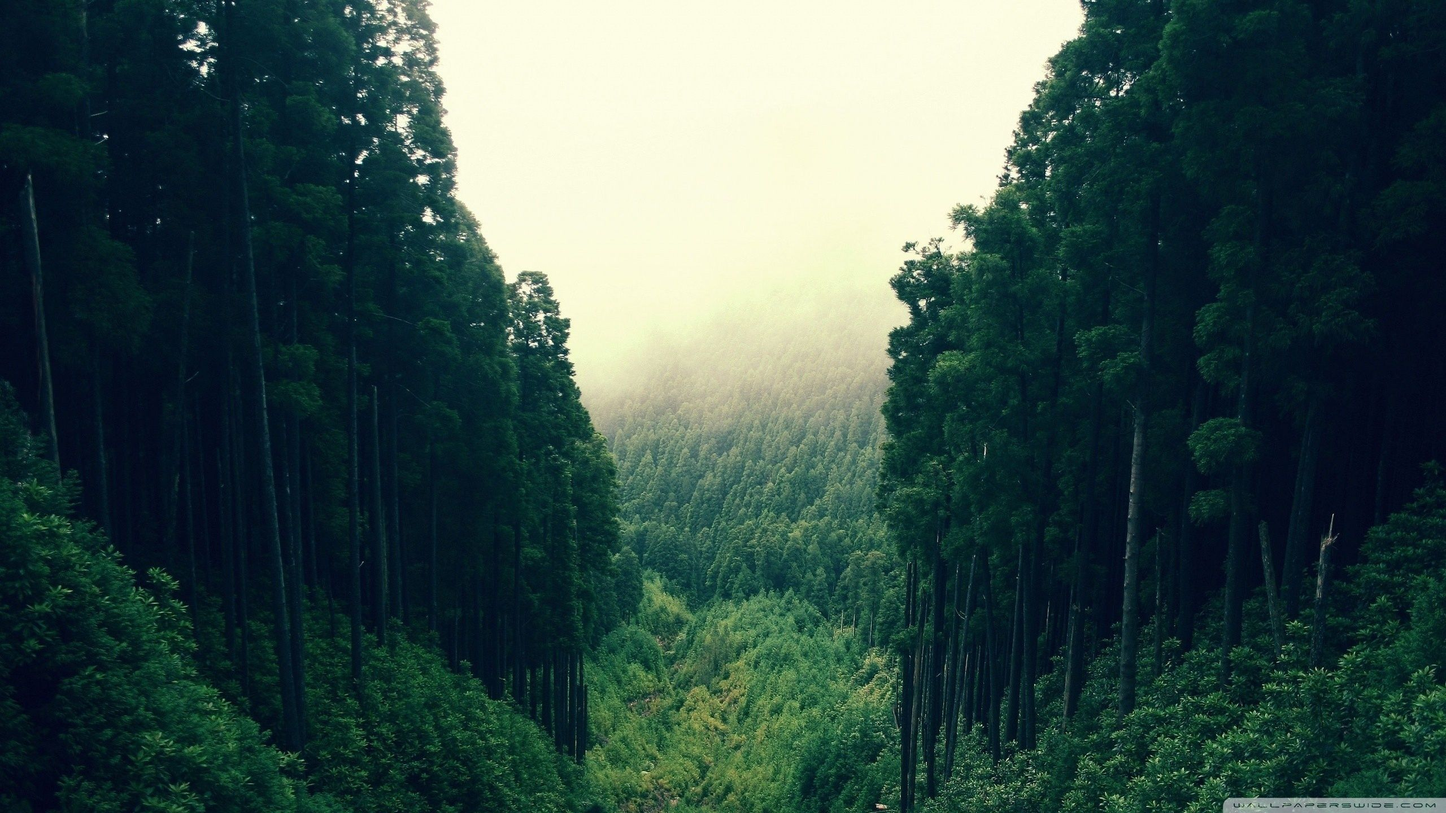
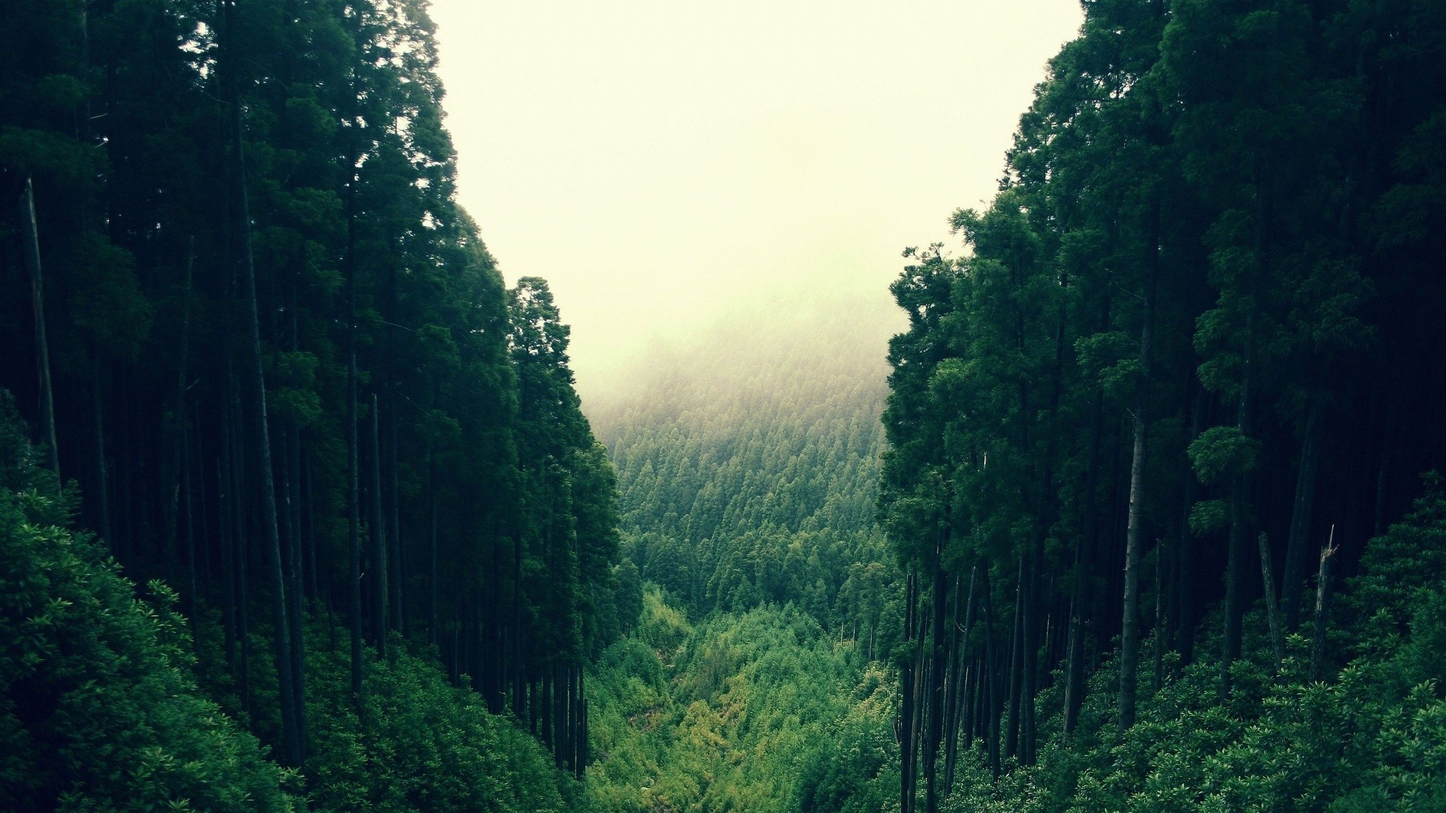
Update login & register

diff --git a/public/css/login.css b/public/css/login.css
@@ -43,7 +43,9 @@
     --white: #e9e9e9;
     --gray: #333;
     --blue: #0367a6;
+    --green: #4CAF50;
     --lightblue: #008997;
+    --lightgreen: #8bc34a;
 
     /* RADII */
     --button-radius: 0.7rem;
@@ -61,7 +63,8 @@ body {
     align-items: center;
 
     background-color: var(--white);
-    background: url("https://res.cloudinary.com/dci1eujqw/image/upload/v1616769558/Codepen/waldemar-brandt-aThdSdgx0YM-unsplash_cnq4sb.jpg");
+    /*background: url("https://res.cloudinary.com/dci1eujqw/image/upload/v1616769558/Codepen/waldemar-brandt-aThdSdgx0YM-unsplash_cnq4sb.jpg");*/
+    background: url("/img/wallpaper1.jpg");
     background-attachment: fixed;
     background-position: center;
     background-repeat: no-repeat;
@@ -144,8 +147,8 @@ body {
 
 .overlay {
     background-color: var(--lightblue);
-    background: url("https://res.cloudinary.com/dci1eujqw/image/upload/v1616769558/Codepen/waldemar-brandt-aThdSdgx0YM-unsplash_cnq4sb.jpg");
-    /*background: url("/381413.jpg");*/
+    /*background: url("https://res.cloudinary.com/dci1eujqw/image/upload/v1616769558/Codepen/waldemar-brandt-aThdSdgx0YM-unsplash_cnq4sb.jpg");*/
+    background: url("/img/wallpaper.jpg");
     background-attachment: fixed;
     background-position: center;
     background-repeat: no-repeat;
@@ -199,10 +202,10 @@ body {
 }
 
 .btn {
-    background-color: var(--blue);
-    background-image: linear-gradient(90deg, var(--blue) 0%, var(--lightblue) 74%);
+    background-color: var(--green);
+    background-image: linear-gradient(90deg, var(--green) 0%, var(--lightgreen) 74%);
     border-radius: 20px;
-    border: 1px solid var(--blue);
+    border: 1px solid var(--green);
     color: var(--white);
     cursor: pointer;
     font-size: 0.8rem;
